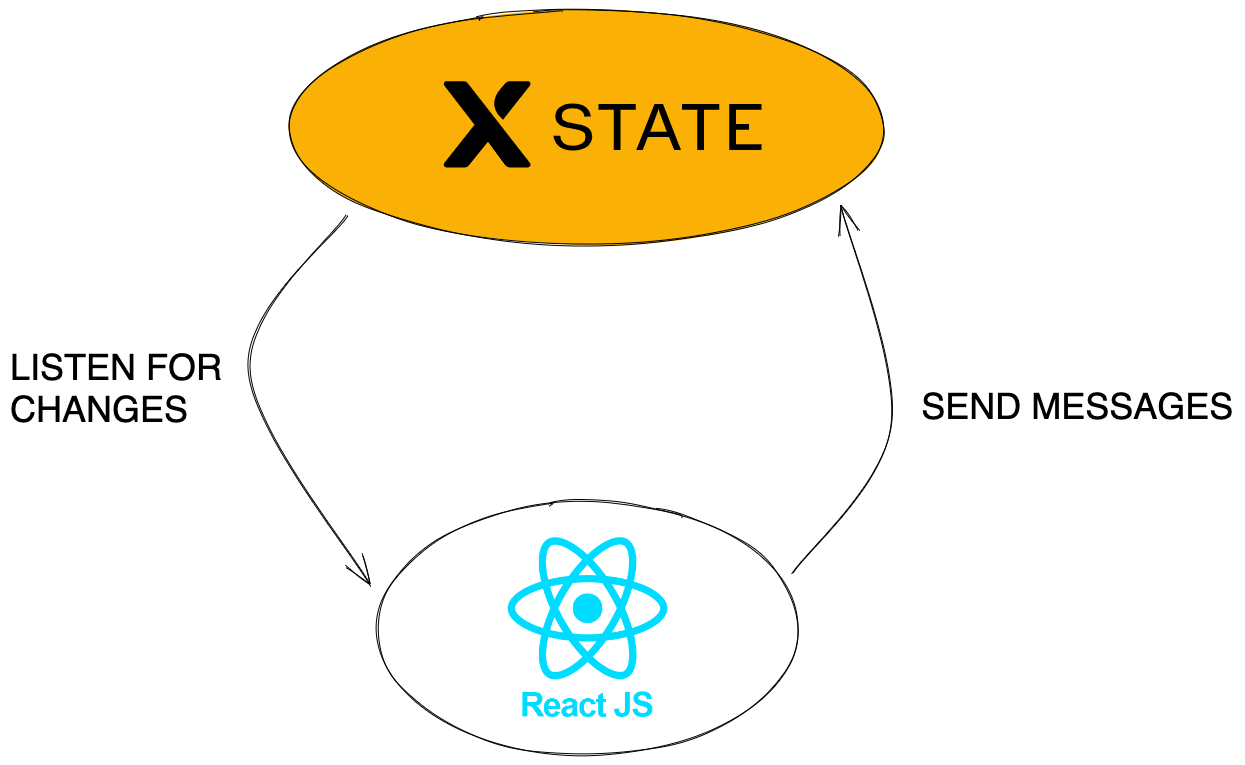
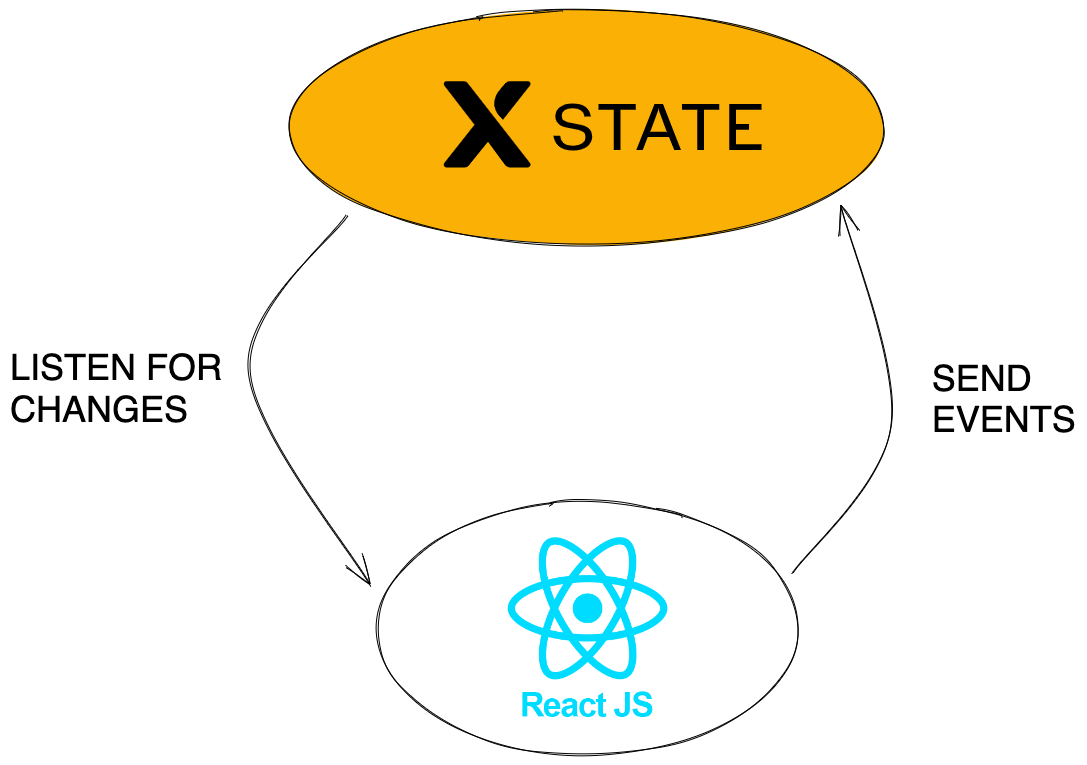
docs: use send events instead of send messages

diff --git a/deck.md b/deck.md
@@ -60,7 +60,7 @@ Migration **Fluxible** vers **Redux**
 
 <!-- slide -->
 
-![](./docs/schmea-communication.png)
+<img src="./docs/schmea-communication.png" height="500px" />
 
 > Démo n°2
 
